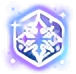
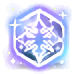
Update
- 아르테리아 배경 추가
- 아르테리아 심볼 이미지 개선

diff --git a/assets/css/index.css b/assets/css/index.css
@@ -430,6 +430,7 @@ a:hover {
   backface-visibility: hidden;
   transform: translate3d(0, 0, 0);
   /* Set your background with this */
+  background-size: contain;
   background-repeat: repeat-x;
   height: 100%;
   left: 0;
@@ -444,6 +445,9 @@ a:hover {
 .bg-shangrila2 {
   background: #348cb2 url("images/bg-shangrila2.png") bottom left;
 }
+.bg-arteria {
+  background: #348cb2 url("images/bg-arteria.png") bottom left;
+}
 
 @keyframes bg {
   0% {
@@ -456,7 +460,6 @@ a:hover {
 }
 
 #bg {
-  background-size: contain;
   width: 6750px;
 }
 
@@ -740,7 +743,6 @@ a:hover {
   }
 
   #bg {
-    background-size: contain;
     width: 5040px;
   }
 }
@@ -770,7 +772,6 @@ a:hover {
   }
 
   #bg {
-    background-size: contain;
     width: 3840px;
   }
 }
@@ -804,7 +805,6 @@ a:hover {
   }
 
   #bg {
-    background-size: contain;
     width: 2944px;
   }
 
@@ -847,7 +847,6 @@ a:hover {
   }
 
   #bg {
-    background-size: contain;
     width: 2250px;
   }
 

diff --git a/index.html b/index.html
@@ -86,7 +86,7 @@
         <h2>이덴티스크 기본탐험</h2>
         <ul id="identisk"></ul>
       </div>
-      <div id="bg" class="bg-shangrila2"></div>
+      <div id="bg" class="bg-arteria"></div>
       <div id="overlay"></div>
       <div id="main">
         <!-- Header -->
@@ -134,9 +134,8 @@
                   src="assets/css/images/symbol-arteria.png"
                   style="cursor: pointer"
                 />
-                <!-- <span id="arteriaCurrentLevel" class="currentLevel">Lv.-</span>
-                <p id="arteriaCurrentValue" class="currentValue">Loading..</p> -->
-                <span>COMMING SOON</span>
+                <span id="arteriaCurrentLevel" class="currentLevel">Lv.-</span>
+                <p id="arteriaCurrentValue" class="currentValue">Loading..</p>
               </li>
             </ul>
           </nav>

diff --git a/symbolFetch.js b/symbolFetch.js
@@ -53,7 +53,7 @@ function fetchSymbol() {
       );
 
       // You can access the updated symbols here for further processing
-      console.log(updatedSymbols);
+      // console.log(updatedSymbols);
     })
     .catch((error) => {
       console.error("Error occurred while fetching data:", error);
